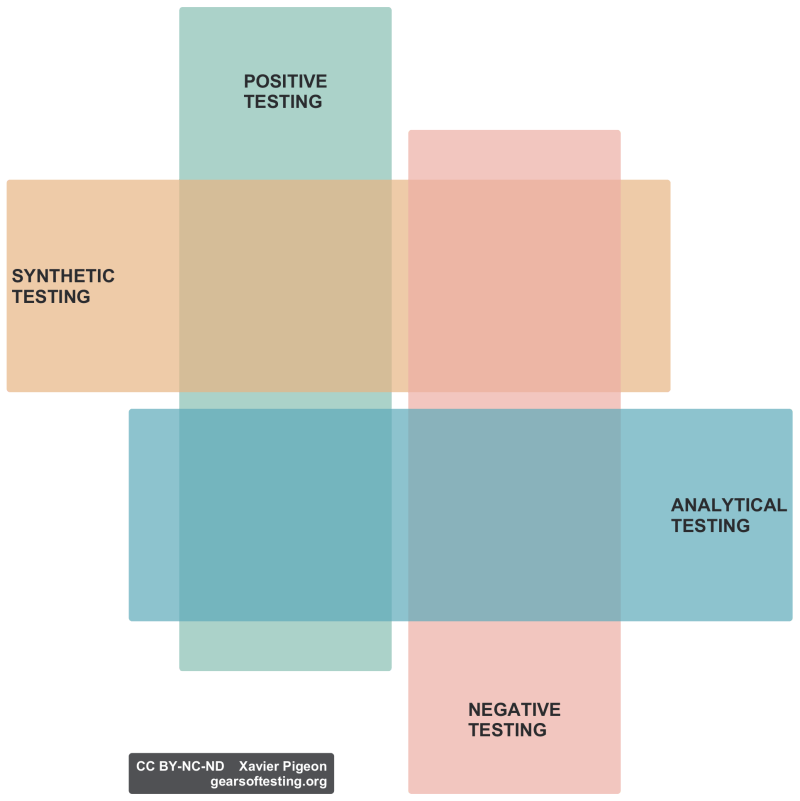
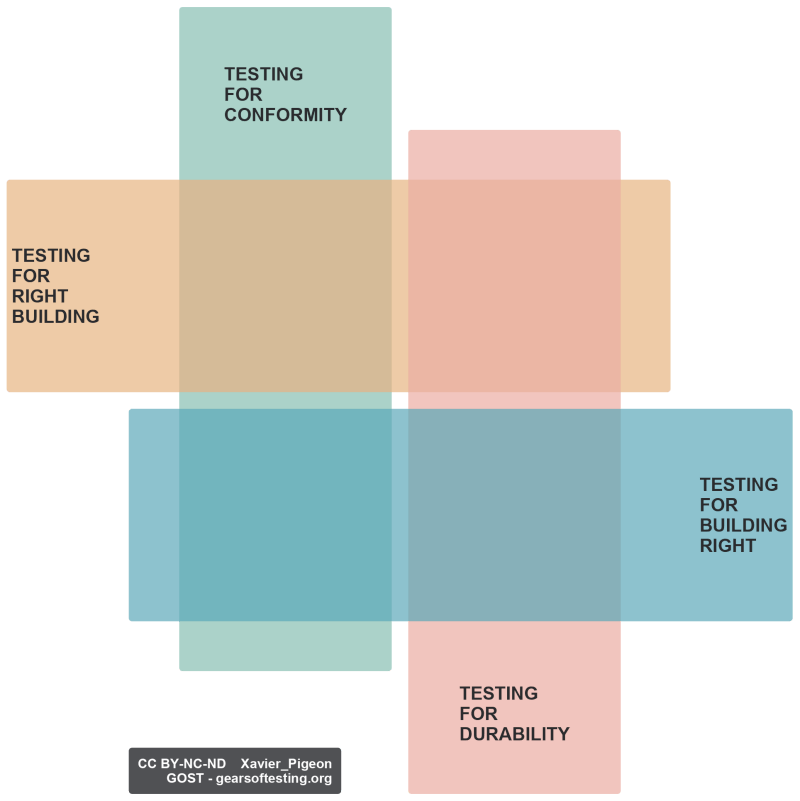
[Body of Knowledge] Update the typological tree of testing.

diff --git a/test-typology.html b/test-typology.html
@@ -58,7 +58,7 @@
 
 </section>
 
-<section class="engine"><a href="https://mobirise.info/o">free portfolio web templates</a></section><section class="mbr-section content4 cid-r7dTsMVxeY" id="content4-3j">
+<section class="engine"><a href="https://mobirise.info/u">bootstrap html templates</a></section><section class="mbr-section content4 cid-r7dTsMVxeY" id="content4-3j">
 
     
 
@@ -121,7 +121,7 @@
 
     <figure class="mbr-figure">
         <div class="image-block" style="width: 100%;">
-            <img src="assets/images/tests-2886x3377.png" alt="Typological tree of testing" title="">
+            <img src="assets/images/tests-3650x4432.png" alt="Typological tree of testing" title="">
             
         </div>
     </figure>
@@ -204,7 +204,7 @@
     
 
     <div class="container">
-        <div><!-- Filter --><div class="mbr-gallery-filter container gallery-filter-active"><ul buttons="0"><li class="mbr-gallery-filter-all"><a class="btn btn-md btn-primary-outline active display-7" href="">All</a></li></ul></div><!-- Gallery --><div class="mbr-gallery-row"><div class="mbr-gallery-layout-default"><div><div><div class="mbr-gallery-item mbr-gallery-item--p2" data-video-url="false" data-tags="Model"><div href="#lb-gallery2-y" data-slide-to="0" data-toggle="modal"><img src="assets/images/typological-model-of-testing-1500x762-800x406.png" alt="Typological model of testing" title=""><span class="icon-focus"></span></div></div><div class="mbr-gallery-item mbr-gallery-item--p2" data-video-url="false" data-tags="Differentiation,Characterization"><div href="#lb-gallery2-y" data-slide-to="1" data-toggle="modal"><img src="assets/images/system-under-test-en-1064x1186-800x892.png" alt="System under test" title=""><span class="icon-focus"></span></div></div><div class="mbr-gallery-item mbr-gallery-item--p2" data-video-url="false" data-tags="Differentiation,Characterization"><div href="#lb-gallery2-y" data-slide-to="2" data-toggle="modal"><img src="assets/images/test-targets-1472x1626-800x884.png" alt="Test targets" title=""><span class="icon-focus"></span></div></div><div class="mbr-gallery-item mbr-gallery-item--p2" data-video-url="false" data-tags="Categorization"><div href="#lb-gallery2-y" data-slide-to="3" data-toggle="modal"><img src="assets/images/box-black-gray-white-circular-954x1024-800x859.png" alt="White, gray or black box" title=""><span class="icon-focus"></span></div></div><div class="mbr-gallery-item mbr-gallery-item--p2" data-video-url="false" data-tags="Characterization"><div href="#lb-gallery2-y" data-slide-to="4" data-toggle="modal"><img src="assets/images/static-vs-dynamic-testing-1046x750-800x574.png" alt="Static vs dynamic testing" title=""><span class="icon-focus"></span></div></div><div class="mbr-gallery-item mbr-gallery-item--p2" data-video-url="false" data-tags="Characterization"><div href="#lb-gallery2-y" data-slide-to="5" data-toggle="modal"><img src="assets/images/test-styles-994x1094-800x880.png" alt="Test styles: ad-lib, structured, short-scripted, long-scripted" title=""><span class="icon-focus"></span></div></div><div class="mbr-gallery-item mbr-gallery-item--p2" data-video-url="false" data-tags="Characterization"><div href="#lb-gallery2-y" data-slide-to="6" data-toggle="modal"><img src="assets/images/who-feeds-testing-846x696-800x658.png" alt="Who feeds testing? Who are testers?" title=""><span class="icon-focus"></span></div></div><div class="mbr-gallery-item mbr-gallery-item--p2" data-video-url="false" data-tags="Categorization"><div href="#lb-gallery2-y" data-slide-to="7" data-toggle="modal"><img src="assets/images/manual-tooled-automated-1094x842-800x616.png" alt="Testing: manual, tooled, automated" title=""><span class="icon-focus"></span></div></div><div class="mbr-gallery-item mbr-gallery-item--p2" data-video-url="false" data-tags="Categorization"><div href="#lb-gallery2-y" data-slide-to="8" data-toggle="modal"><img src="assets/images/testing-positive-negative-synthetic-analytical-1928x1930-800x801.png" alt="Testing: positive, negative, synthetic, analytical" title=""><span class="icon-focus"></span></div></div><div class="mbr-gallery-item mbr-gallery-item--p2" data-video-url="false" data-tags="Categorization"><div href="#lb-gallery2-y" data-slide-to="9" data-toggle="modal"><img src="assets/images/test-pyramid-with-4-stages-1062x752-800x566.png" alt="Test Pyramid with 4 stages" title=""><span class="icon-focus"></span></div></div><div class="mbr-gallery-item mbr-gallery-item--p2" data-video-url="false" data-tags="Categorization"><div href="#lb-gallery2-y" data-slide-to="10" data-toggle="modal"><img src="assets/images/performance-testing-areas-1488x1452-800x781.png" alt="Performance testing areas" title=""><span class="icon-focus"></span></div></div></div></div><div class="clearfix"></div></div></div><!-- Lightbox --><div data-app-prevent-settings="" class="mbr-slider modal fade carousel slide" tabindex="-1" data-keyboard="true" data-interval="false" id="lb-gallery2-y"><div class="modal-dialog"><div class="modal-content"><div class="modal-body"><div class="carousel-inner"><div class="carousel-item"><img src="assets/images/typological-model-of-testing-1500x762.png" alt="Typological model of testing" title=""></div><div class="carousel-item active"><img src="assets/images/system-under-test-en-1064x1186.png" alt="System under test" title=""></div><div class="carousel-item"><img src="assets/images/test-targets-1472x1626.png" alt="Test targets" title=""></div><div class="carousel-item"><img src="assets/images/box-black-gray-white-circular-954x1024.png" alt="White, gray or black box" title=""></div><div class="carousel-item"><img src="assets/images/static-vs-dynamic-testing-1046x750.png" alt="Static vs dynamic testing" title=""></div><div class="carousel-item"><img src="assets/images/test-styles-994x1094.png" alt="Test styles: ad-lib, structured, short-scripted, long-scripted" title=""></div><div class="carousel-item"><img src="assets/images/who-feeds-testing-846x696.png" alt="Who feeds testing? Who are testers?" title=""></div><div class="carousel-item"><img src="assets/images/manual-tooled-automated-1094x842.png" alt="Testing: manual, tooled, automated" title=""></div><div class="carousel-item"><img src="assets/images/testing-positive-negative-synthetic-analytical-1928x1930.png" alt="Testing: positive, negative, synthetic, analytical" title=""></div><div class="carousel-item"><img src="assets/images/test-pyramid-with-4-stages-1062x752.png" alt="Test Pyramid with 4 stages" title=""></div><div class="carousel-item"><img src="assets/images/performance-testing-areas-1488x1452.png" alt="Performance testing areas" title=""></div></div><a class="carousel-control carousel-control-prev" role="button" data-slide="prev" href="#lb-gallery2-y"><span class="mbri-left mbr-iconfont" aria-hidden="true"></span><span class="sr-only">Previous</span></a><a class="carousel-control carousel-control-next" role="button" data-slide="next" href="#lb-gallery2-y"><span class="mbri-right mbr-iconfont" aria-hidden="true"></span><span class="sr-only">Next</span></a><a class="close" href="#" role="button" data-dismiss="modal"><span class="sr-only">Close</span></a></div></div></div></div></div>
+        <div><!-- Filter --><div class="mbr-gallery-filter container gallery-filter-active"><ul buttons="0"><li class="mbr-gallery-filter-all"><a class="btn btn-md btn-primary-outline active display-7" href="">All</a></li></ul></div><!-- Gallery --><div class="mbr-gallery-row"><div class="mbr-gallery-layout-default"><div><div><div class="mbr-gallery-item mbr-gallery-item--p2" data-video-url="false" data-tags="Model"><div href="#lb-gallery2-y" data-slide-to="0" data-toggle="modal"><img src="assets/images/typological-model-of-testing-1500x762-800x406.png" alt="Typological model of testing" title=""><span class="icon-focus"></span></div></div><div class="mbr-gallery-item mbr-gallery-item--p2" data-video-url="false" data-tags="Differentiation,Characterization"><div href="#lb-gallery2-y" data-slide-to="1" data-toggle="modal"><img src="assets/images/system-under-test-en-1064x1186-800x892.png" alt="System under test" title=""><span class="icon-focus"></span></div></div><div class="mbr-gallery-item mbr-gallery-item--p2" data-video-url="false" data-tags="Differentiation,Characterization"><div href="#lb-gallery2-y" data-slide-to="2" data-toggle="modal"><img src="assets/images/test-targets-1472x1626-800x884.png" alt="Test targets" title=""><span class="icon-focus"></span></div></div><div class="mbr-gallery-item mbr-gallery-item--p2" data-video-url="false" data-tags="Categorization"><div href="#lb-gallery2-y" data-slide-to="3" data-toggle="modal"><img src="assets/images/box-black-gray-white-circular-954x1024-800x859.png" alt="White, gray or black box" title=""><span class="icon-focus"></span></div></div><div class="mbr-gallery-item mbr-gallery-item--p2" data-video-url="false" data-tags="Characterization"><div href="#lb-gallery2-y" data-slide-to="4" data-toggle="modal"><img src="assets/images/static-vs-dynamic-testing-1046x750-800x574.png" alt="Static vs dynamic testing" title=""><span class="icon-focus"></span></div></div><div class="mbr-gallery-item mbr-gallery-item--p2" data-video-url="false" data-tags="Characterization"><div href="#lb-gallery2-y" data-slide-to="5" data-toggle="modal"><img src="assets/images/test-styles-994x1094-800x880.png" alt="Test styles: ad-lib, structured, short-scripted, long-scripted" title=""><span class="icon-focus"></span></div></div><div class="mbr-gallery-item mbr-gallery-item--p2" data-video-url="false" data-tags="Characterization"><div href="#lb-gallery2-y" data-slide-to="6" data-toggle="modal"><img src="assets/images/who-feeds-testing-846x696-800x658.png" alt="Who feeds testing? Who are testers?" title=""><span class="icon-focus"></span></div></div><div class="mbr-gallery-item mbr-gallery-item--p2" data-video-url="false" data-tags="Categorization"><div href="#lb-gallery2-y" data-slide-to="7" data-toggle="modal"><img src="assets/images/manual-tooled-automated-1094x842-800x616.png" alt="Testing: manual, tooled, automated" title=""><span class="icon-focus"></span></div></div><div class="mbr-gallery-item mbr-gallery-item--p2" data-video-url="false" data-tags="Categorization"><div href="#lb-gallery2-y" data-slide-to="8" data-toggle="modal"><img src="assets/images/testing-positive-negative-synthetic-analytical-1928x1930-800x801.png" alt="Testing for 4 matters" title=""><span class="icon-focus"></span></div></div><div class="mbr-gallery-item mbr-gallery-item--p2" data-video-url="false" data-tags="Categorization"><div href="#lb-gallery2-y" data-slide-to="9" data-toggle="modal"><img src="assets/images/test-pyramid-with-4-stages-1062x752-800x566.png" alt="Test Pyramid with 4 stages" title=""><span class="icon-focus"></span></div></div><div class="mbr-gallery-item mbr-gallery-item--p2" data-video-url="false" data-tags="Categorization"><div href="#lb-gallery2-y" data-slide-to="10" data-toggle="modal"><img src="assets/images/performance-testing-areas-1488x1452-800x781.png" alt="Performance testing areas" title=""><span class="icon-focus"></span></div></div></div></div><div class="clearfix"></div></div></div><!-- Lightbox --><div data-app-prevent-settings="" class="mbr-slider modal fade carousel slide" tabindex="-1" data-keyboard="true" data-interval="false" id="lb-gallery2-y"><div class="modal-dialog"><div class="modal-content"><div class="modal-body"><div class="carousel-inner"><div class="carousel-item"><img src="assets/images/typological-model-of-testing-1500x762.png" alt="Typological model of testing" title=""></div><div class="carousel-item"><img src="assets/images/system-under-test-en-1064x1186.png" alt="System under test" title=""></div><div class="carousel-item"><img src="assets/images/test-targets-1472x1626.png" alt="Test targets" title=""></div><div class="carousel-item"><img src="assets/images/box-black-gray-white-circular-954x1024.png" alt="White, gray or black box" title=""></div><div class="carousel-item"><img src="assets/images/static-vs-dynamic-testing-1046x750.png" alt="Static vs dynamic testing" title=""></div><div class="carousel-item"><img src="assets/images/test-styles-994x1094.png" alt="Test styles: ad-lib, structured, short-scripted, long-scripted" title=""></div><div class="carousel-item"><img src="assets/images/who-feeds-testing-846x696.png" alt="Who feeds testing? Who are testers?" title=""></div><div class="carousel-item active"><img src="assets/images/manual-tooled-automated-1094x842.png" alt="Testing: manual, tooled, automated" title=""></div><div class="carousel-item"><img src="assets/images/testing-positive-negative-synthetic-analytical-1928x1930.png" alt="Testing for 4 matters" title=""></div><div class="carousel-item"><img src="assets/images/test-pyramid-with-4-stages-1062x752.png" alt="Test Pyramid with 4 stages" title=""></div><div class="carousel-item"><img src="assets/images/performance-testing-areas-1488x1452.png" alt="Performance testing areas" title=""></div></div><a class="carousel-control carousel-control-prev" role="button" data-slide="prev" href="#lb-gallery2-y"><span class="mbri-left mbr-iconfont" aria-hidden="true"></span><span class="sr-only">Previous</span></a><a class="carousel-control carousel-control-next" role="button" data-slide="next" href="#lb-gallery2-y"><span class="mbri-right mbr-iconfont" aria-hidden="true"></span><span class="sr-only">Next</span></a><a class="close" href="#" role="button" data-dismiss="modal"><span class="sr-only">Close</span></a></div></div></div></div></div>
     </div>
 
 </section>

diff --git a/consulting.html b/consulting.html
@@ -60,7 +60,7 @@
 
 </section>
 
-<section class="engine"><a href="https://mobirise.info/e">how to make a site for free</a></section><section class="cid-rdLhKULuhE" id="image3-57">
+<section class="engine"><a href="https://mobirise.info/z">best website templates</a></section><section class="cid-rdLhKULuhE" id="image3-57">
 
     
 
@@ -91,7 +91,7 @@
             <div class="media-container-column col-lg-8" data-form-type="formoid">
                     <div data-form-alert="" hidden="">Thanks for filling out the form!</div>
             
[2 lines of base64/hex data omitted]
                         <div class="row row-sm-offset">
                             <div class="col-md-4 multi-horizontal" data-for="name">
                                 <div class="form-group">

diff --git a/tddflow.html b/tddflow.html
@@ -57,7 +57,7 @@
 
 </section>
 
-<section class="engine"><a href="https://mobirise.info/h">how to create your own web page for free</a></section><section class="mbr-section article content1 cid-rixadVPPDa" id="content1-63">
+<section class="engine"><a href="https://mobirise.info/n">free simple site templates</a></section><section class="mbr-section article content1 cid-rixadVPPDa" id="content1-63">
     
      
 

diff --git a/index.html b/index.html
@@ -62,7 +62,7 @@
     </div>
 </section>
 
-<section class="engine"><a href="https://mobirise.info/o">free portfolio site templates</a></section><section class="features8 cid-qUtNrvByr9 mbr-parallax-background" id="features8-u">
+<section class="engine"><a href="https://mobirise.info/j">website templates</a></section><section class="features8 cid-qUtNrvByr9 mbr-parallax-background" id="features8-u">
 
     
 

diff --git a/workflow.html b/workflow.html
@@ -58,7 +58,7 @@
 
 </section>
 
-<section class="engine"><a href="https://mobirise.info/w">html5 templates</a></section><section class="mbr-section content5 cid-rbycZUkq42 mbr-parallax-background" id="content5-4e">
+<section class="engine"><a href="https://mobirise.info/j">website templates</a></section><section class="mbr-section content5 cid-rbycZUkq42 mbr-parallax-background" id="content5-4e">
 
     
 

diff --git a/jungle-of-testing.html b/jungle-of-testing.html
@@ -60,7 +60,7 @@
 
 </section>
 
-<section class="engine"><a href="https://mobirise.info/u">bootstrap responsive templates</a></section><section class="mbr-section content6 cid-raqAEhLqH4" id="content6-42">
+<section class="engine"><a href="https://mobirise.info/n">free simple web templates</a></section><section class="mbr-section content6 cid-raqAEhLqH4" id="content6-42">
     
      
     

diff --git a/method.html b/method.html
@@ -67,7 +67,7 @@
     </nav>
 </section>
 
-<section class="engine"><a href="https://mobirise.info/f">simple site maker</a></section><section class="carousel slide cid-qZo5mlC2MR" data-interval="false" id="slider1-1o">
+<section class="engine"><a href="https://mobirise.info">Mobirise</a></section><section class="carousel slide cid-qZo5mlC2MR" data-interval="false" id="slider1-1o">
 
     
 

diff --git a/mastering.html b/mastering.html
@@ -58,7 +58,7 @@
 
 </section>
 
-<section class="engine"><a href="https://mobirise.info/q">responsive site templates</a></section><section class="mbr-section content4 cid-r3mUQV9PzI" id="content4-3b">
+<section class="engine"><a href="https://mobirise.info/g">build a website for free</a></section><section class="mbr-section content4 cid-r3mUQV9PzI" id="content4-3b">
 
     
 

diff --git a/references.html b/references.html
@@ -62,7 +62,7 @@
 
 </section>
 
-<section class="engine"><a href="https://mobirise.info/y">html site templates</a></section><section class="mbr-section content4 cid-rzZ0wsa3oz" id="content4-6y">
+<section class="engine"><a href="https://mobirise.info/b">how to create a website</a></section><section class="mbr-section content4 cid-rzZ0wsa3oz" id="content4-6y">
 
     
 

diff --git a/legacy-tests.html b/legacy-tests.html
@@ -59,7 +59,7 @@
 
 </section>
 
-<section class="engine"><a href="https://mobirise.info/r">bootstrap template</a></section><section class="mbr-section content4 cid-qZnWIS0ri7" id="content4-1m">
+<section class="engine"><a href="https://mobirise.info/r">free bootstrap template</a></section><section class="mbr-section content4 cid-qZnWIS0ri7" id="content4-1m">
 
     
 

diff --git a/testable-architecture.html b/testable-architecture.html
@@ -58,7 +58,7 @@
 
 </section>
 
-<section class="engine"><a href="https://mobirise.info/x">css templates</a></section><section class="mbr-section content4 cid-rxFapKR11N" id="content4-6m">
+<section class="engine"><a href="https://mobirise.info/r">free bootstrap template</a></section><section class="mbr-section content4 cid-rxFapKR11N" id="content4-6m">
 
     
 

diff --git a/tempo-of-testing.html b/tempo-of-testing.html
@@ -58,7 +58,7 @@
 
 </section>
 
-<section class="engine"><a href="https://mobirise.info/e">make a site</a></section><section class="mbr-section content4 cid-qZXkHcxAkz" id="content4-2i">
+<section class="engine"><a href="https://mobirise.info/f">simple web creator</a></section><section class="mbr-section content4 cid-qZXkHcxAkz" id="content4-2i">
 
     
 
